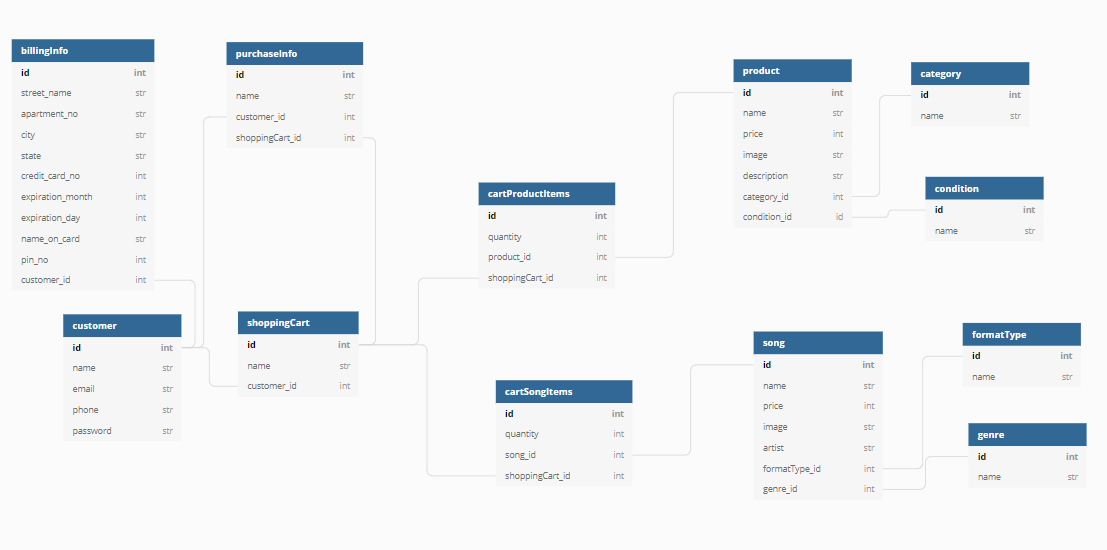
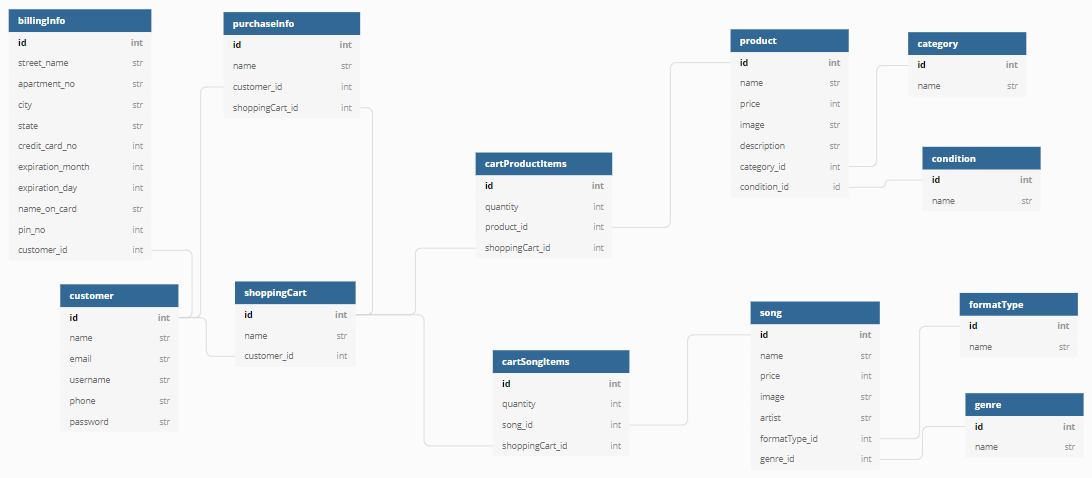
added README.md for planout; updated Schema code and diagram;

diff --git a/README.md b/README.md
@@ -1,0 +1,97 @@
+# Files
+- FSD Java Capstone pdf is original capstone pdf with the writing prompt, diagrams, and wireframes.
+- Visual Schema Diagram is a PNG screen shot of a schema mocked up in dbdiagram.io 
+- Schema Code.txt is the code I wrote in dbdiagram.io to make the schema representation
+
+# Tables
+
+## Customer
+- Not a fixed ammount
+- Email must be unique, another account cannot have the same email
+- Username must be unique, another account cannot have the same email
+- Password must be unique, another account cannot have the same email
+- 1-to-1: Billing Info
+- 1-to-many: Shopping Cart, Purchase Info
+
+### Crud Functionalities
+- 
+
+## Billing Info
+- 1-to-1: Customer
+- Join Table (Seperate from customer details for simplicity -> Can also just be a part of Customer table)
+
+### Crud Functionalities
+- 
+
+## Shopping Cart
+- 1-to-1: Purchase Info
+- 1-to-many: Cart Product Items, Cart Song Items
+- many-to-1: Customer
+- Join Table (That can be referred to any items being purchased by one user)
+
+### Crud Functionalities
+- 
+
+## Purchase Info
+- 1-to-1: Shopping Cart
+- many-to-1: Customer
+- Join Table (also serves to show when a Shopping Cart is no longer active by Purchase Info's existence)
+
+### Crud Functionalities
+-
+
+## Cart Product Items
+- 1-to-1: Product
+- mant-to-1: Shopping Cart
+- Join Table
+
+### Crud Functionalities
+-
+
+## Cart Song Items
+- 1-to-1: Song
+- mant-to-1: Shopping Cart
+- Join Table
+
+### Crud Functionalities
+-
+
+## Product
+- 1-to-1: Cart Product Items, Category, Condition
+
+### Crud Functionalities
+-
+
+## Song
+- 1-to-1: Cart Song Items, Format Type, Genre
+
+### Crud Functionalities
+-
+
+## Category
+- 1-to-many: Product 
+- Fixed Set: [Accessory, Amp, Instrument, etc]
+
+### Crud Functionalities
+-
+
+## Condition
+- 1-to-many: Product
+- Fixed Set: [New, Like New, Used, Worn, etc]
+
+### Crud Functionalities
+-
+
+## Format Type
+- 1-to-many: Song
+- Fixed Set: [CD, Digital, Vinyl, etc]
+
+### Crud Functionalities
+-
+
+## Genre
+- 1-to-many: Song
+- Fixed Set: [Rock, Blues, Jazz, Ska, Funk, etc]
+
+### Crud Functionalities
+-
